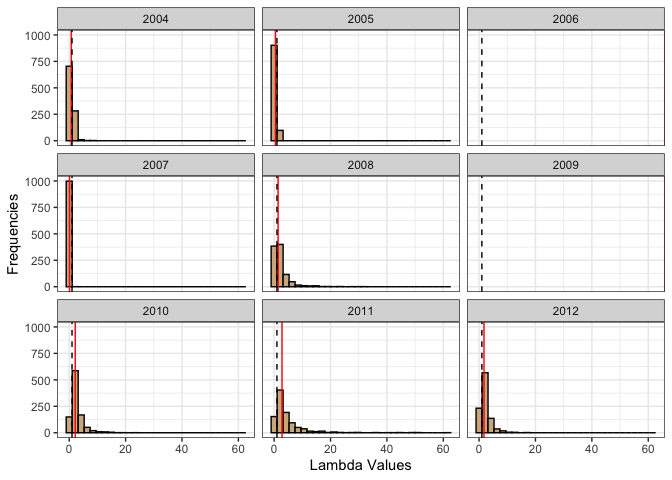
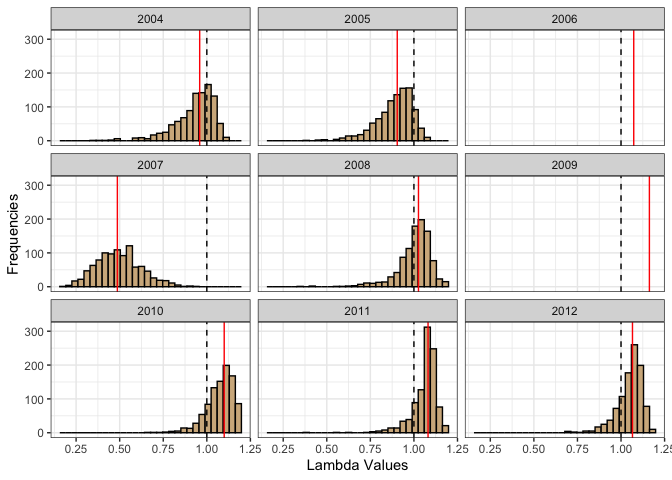
update to newest version

diff --git a/README.md b/README.md
@@ -87,17 +87,17 @@ growth_est <- bbr_growth(survival_est, recruitment_est)
 summary <- bbr_growth_summarize(growth_est)
 summary
 #> # A tibble: 9 × 13
-#>   PopulationName  Year     S     R estimate     se  lower  upper prop_lgt1
-#>   <chr>          <int> <dbl> <dbl>    <dbl>  <dbl>  <dbl>  <dbl>     <dbl>
-#> 1 C               2004 0.096 0.867    0.722  0.76   0.213  2.69      0.328
-#> 2 C               2005 0.08  0.832    0.476  0.381  0.164  1.61      0.111
-#> 3 C               2006 0.068 1      Inf     NA     NA     NA        NA    
-#> 4 C               2007 0.059 0.458    0.109  0.128  0.024  0.514     0.001
-#> 5 C               2008 0.083 0.941    1.41   3.23   0.249 12.1       0.637
-#> 6 C               2009 0.14  1      Inf     NA     NA     NA        NA    
-#> 7 C               2010 0.158 0.926    2.13   2.37   0.615  9.52      0.868
-#> 8 C               2011 0.112 0.96     2.8    6.18   0.458 20.9       0.863
-#> 9 C               2012 0.133 0.924    1.75   1.9    0.507  7.54      0.793
+#>   PopulationName CaribouYear     S     R estimate     se  lower  upper prop_lgt1
+#>   <chr>                <int> <dbl> <dbl>    <dbl>  <dbl>  <dbl>  <dbl>     <dbl>
+#> 1 C                     2004 0.867 0.096    0.959  0.115  0.636  1.08      0.323
+#> 2 C                     2005 0.832 0.08     0.904  0.105  0.633  1.03      0.093
+#> 3 C                     2006 1     0.068    1.07  NA     NA     NA        NA    
+#> 4 C                     2007 0.458 0.059    0.487  0.128  0.262  0.766     0    
+#> 5 C                     2008 0.941 0.083    1.03   0.1    0.739  1.16      0.615
+#> 6 C                     2009 1     0.14     1.16  NA     NA     NA        NA    
+#> 7 C                     2010 0.926 0.158    1.1    0.085  0.877  1.23      0.854
+#> 8 C                     2011 0.96  0.112    1.08   0.075  0.872  1.16      0.861
+#> 9 C                     2012 0.924 0.133    1.07   0.072  0.875  1.15      0.808
 #> # ℹ 4 more variables: mean_sim_survival <dbl>, mean_sim_recruitment <dbl>,
 #> #   mean_sim_growth <dbl>, median_sim_growth <dbl>
 bbr_plot_growth(growth_est)
